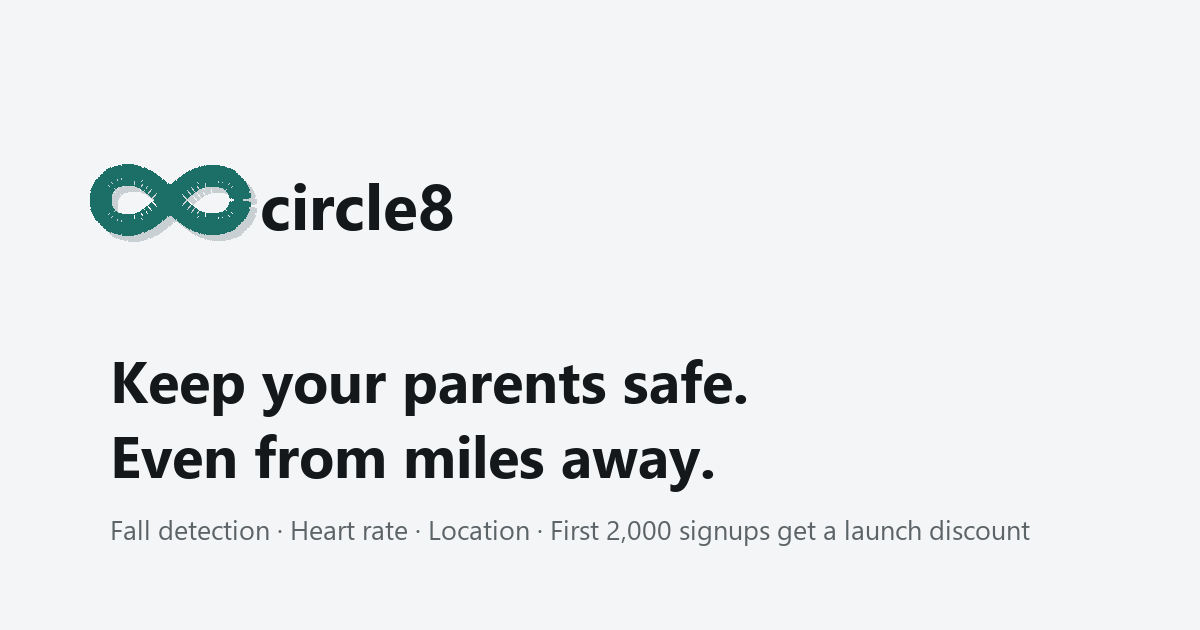
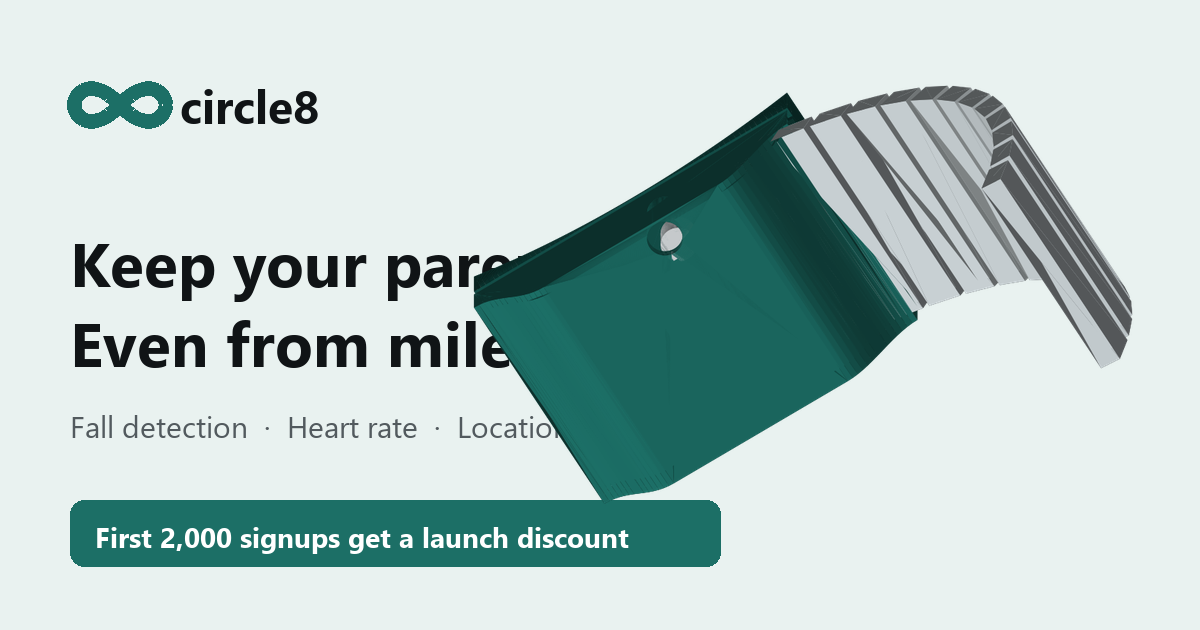
OG kart gorseli urun render'i ile yenilendi + absolute og:image/canonical (X kart gosterimi icin)

diff --git a/index.html b/index.html
@@ -9,8 +9,10 @@
 <meta property="og:title" content="circle8 — Keep your parents safe. Even from miles away.">
 <meta property="og:description" content="Screen-free safety wristband for aging parents. Fall detection, heart rate, location. First 2,000 signups get an exclusive launch discount.">
 <meta property="og:type" content="website">
-<meta property="og:image" content="og.png">
+<meta property="og:image" content="https://bsyilmaz.github.io/circle8-web/og.png">
 <meta name="twitter:card" content="summary_large_image">
+<meta name="twitter:image" content="https://bsyilmaz.github.io/circle8-web/og.png">
+<link rel="canonical" href="https://bsyilmaz.github.io/circle8-web/">
 <link rel="icon" type="image/png" href="icon-192.png">
 <style>
   :root {

diff --git a/make_og.py b/make_og.py
@@ -1,11 +1,15 @@
-# circle8 OG gorseli (Twitter/X kart onizlemesi) — Pillow
+# circle8 OG gorseli: urun render'i + marka + baslik (Twitter/X kart onizlemesi)
 from PIL import Image, ImageDraw, ImageFont
+import math
 
 W, H = 1200, 630
-img = Image.new("RGB", (W, H), "#f4f5f6")
-d = ImageDraw.Draw(img)
-
+BG = (233, 242, 240)          # teal-soft panel rengi
+INK = (16, 20, 22)
+INK2 = (82, 90, 94)
 TEAL_DARK = (28, 111, 102)
+
+img = Image.new("RGB", (W, H), BG)
+d = ImageDraw.Draw(img)
 
 def font(size, bold=False):
     for p in [r"C:\Windows\Fonts\segoeuib.ttf" if bold else r"C:\Windows\Fonts\segoeui.ttf",
@@ -16,8 +20,7 @@ def font(size, bold=False):
             continue
     return ImageFont.load_default()
 
-# logo isareti (sonsuzluk)
-import math
+# logo: sonsuzluk isareti
 def lemniscate(cx, cy, a, n=200):
     pts = []
     for i in range(n + 1):
@@ -26,15 +29,29 @@ def lemniscate(cx, cy, a, n=200):
         pts.append((cx + a * math.cos(t) / den, cy + a * math.sin(t) * math.cos(t) / den))
     return pts
 
-pts = lemniscate(170, 200, 70)
-d.line([(x + 6, y + 6) for x, y in pts], fill=(200, 208, 211), width=22, joint="curve")
-d.line(pts, fill=TEAL_DARK, width=22, joint="curve")
-d.text((260, 160), "circle8", font=font(64, bold=True), fill=(20, 24, 26))
+pts = lemniscate(120, 105, 46)
+d.line(pts, fill=TEAL_DARK, width=15, joint="curve")
+d.text((180, 74), "circle8", font=font(46, bold=True), fill=INK)
 
-d.text((110, 340), "Keep your parents safe.", font=font(58, bold=True), fill=(20, 24, 26))
-d.text((110, 415), "Even from miles away.", font=font(58, bold=True), fill=(20, 24, 26))
-d.text((110, 510), "Fall detection · Heart rate · Location · First 2,000 signups get a launch discount",
-       font=font(27), fill=(92, 100, 104))
+# baslik
+d.text((70, 220), "Keep your parents safe.", font=font(62, bold=True), fill=INK)
+d.text((70, 300), "Even from miles away.", font=font(62, bold=True), fill=INK)
+d.text((70, 405), "Fall detection  ·  Heart rate  ·  Location", font=font(30), fill=INK2)
+
+# teklif satiri
+offer_y = 500
+d.rounded_rectangle([70, offer_y, 720, offer_y + 66], radius=14, fill=TEAL_DARK)
+d.text((95, offer_y + 17), "First 2,000 signups get a launch discount", font=font(28, bold=True), fill=(255, 255, 255))
+
+# urun render'i (sag taraf)
+try:
+    prod = Image.open("product.png").convert("RGBA")
+    target_h = 520
+    scale = target_h / prod.height
+    prod = prod.resize((int(prod.width * scale), target_h), Image.LANCZOS)
+    img.paste(prod, (W - prod.width - 30, 60), prod)
+except Exception as e:
+    print("urun gorseli alinamadi:", e)
 
 img.save("og.png")
 print("og.png yazildi")
